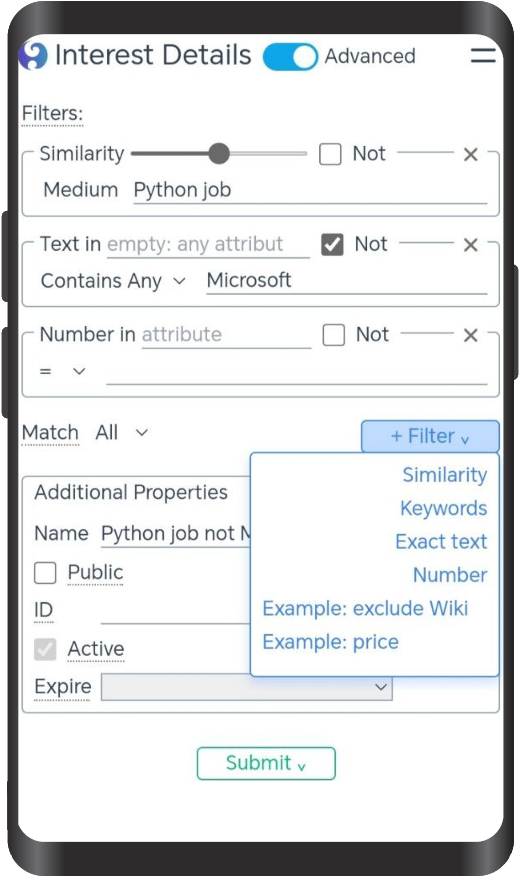
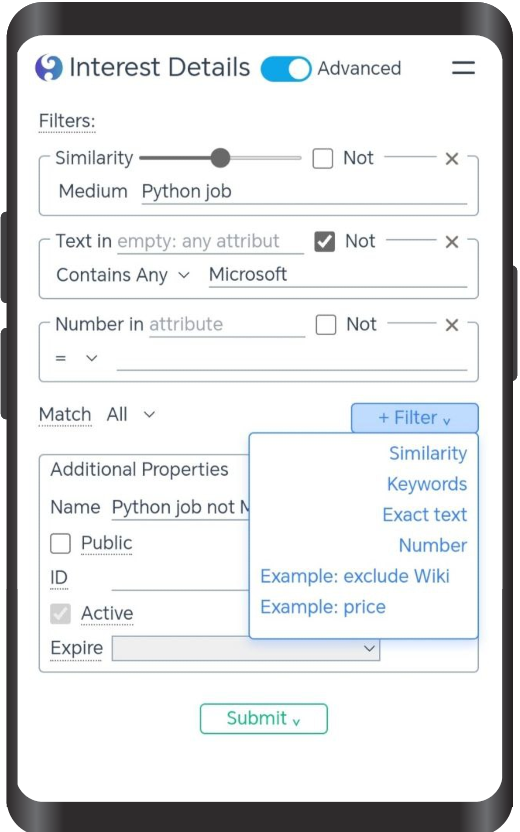
fix: main page [skip ci]

Changed region(s): [[0.0, 0.0312, 1.0, 1.0], [0.3692, 0.8438, 0.6462, 0.9062], [0.9538, 0.0, 0.9846, 0.0312]]

diff --git a/web/sub-details.js b/web/sub-details.js
@@ -10,7 +10,7 @@ const templateCondHeader = (label, idx, countConds, isNot, isSemantic, key, simi
                             <input type="range"
                                    min="0.75"
                                    max="0.95"
-                                   step="0.1"
+                                   step="0.05"
                                    class="mx-1 w-[128px] ${isSemantic ? '' : 'hidden'}"
                                    style="height: 3px; margin-top: 6px;"
                                    value="${similarityMin}"
@@ -77,9 +77,9 @@ const templateCondText = (isNot, key, terms, isExact, idx, countConds) =>
 
 const templateCondSemantic = (isNot, query, similarityMin, idx, countConds) =>
     templateCondHeader("Similarity", idx, countConds, isNot, true,"", similarityMin) + `
-                        <legend class="flex pl-1 w-20">
+                        <legend class="flex pl-1 w-12">
                             <span class="text-nowrap pt-0.5 w-full text-center" id="labelSimilarity${idx}">
-                                ${similarityMin === 0.75 ? 'Weak' : (similarityMin === 0.85 ? 'Medium' : 'Strong')}
+                                ${similarityMin}
                             </span>
                         </legend>
                         <input type="text" 
@@ -568,24 +568,12 @@ function setConditionAttrValueOpts(idx, key) {
 }
 
 function setSimilarity(idx, similarity) {
-    switch (similarity) {
-        case "0.75": {
-            document.getElementById(`labelSimilarity${idx}`).innerText = "Weak";
-            break;
-        }
-        case "0.85": {
-            document.getElementById(`labelSimilarity${idx}`).innerText = "Medium";
-            break;
-        }
-        case "0.95": {
-            document.getElementById(`labelSimilarity${idx}`).innerText = "Strong";
-            break;
-        }
-    }
+    similarity = parseFloat(similarity)
+    document.getElementById(`labelSimilarity${idx}`).innerText = similarity.toFixed(2);
     if (conds.length > idx) {
         const cond = conds[idx];
         if (cond.hasOwnProperty("sc")) {
-            cond.sc.similarityMin = parseFloat(similarity);
+            cond.sc.similarityMin = similarity;
         } else {
             console.error(`Target condition #${idx} is not a semantic condition`);
         }
